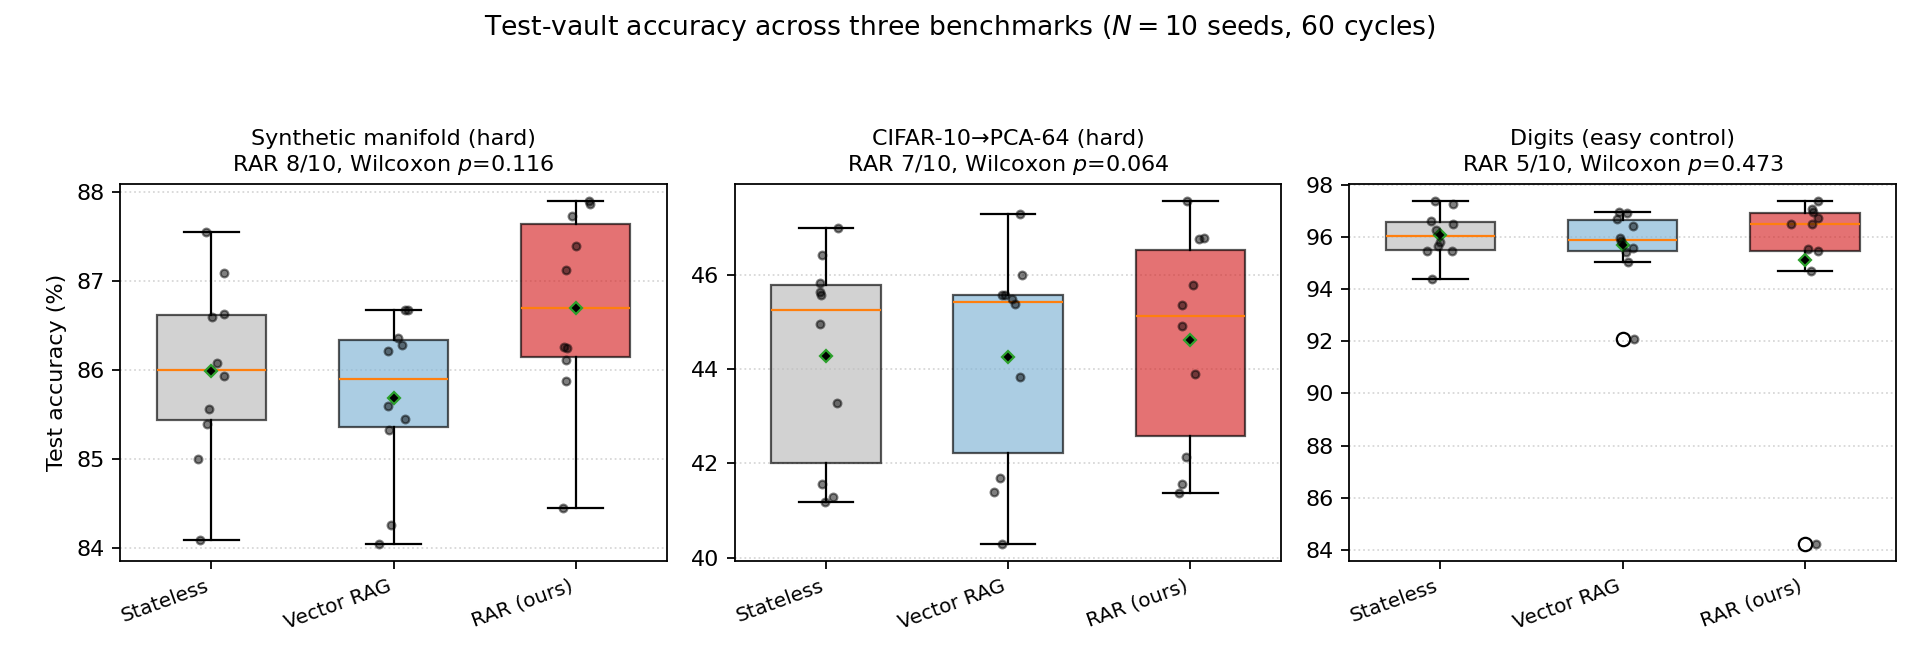
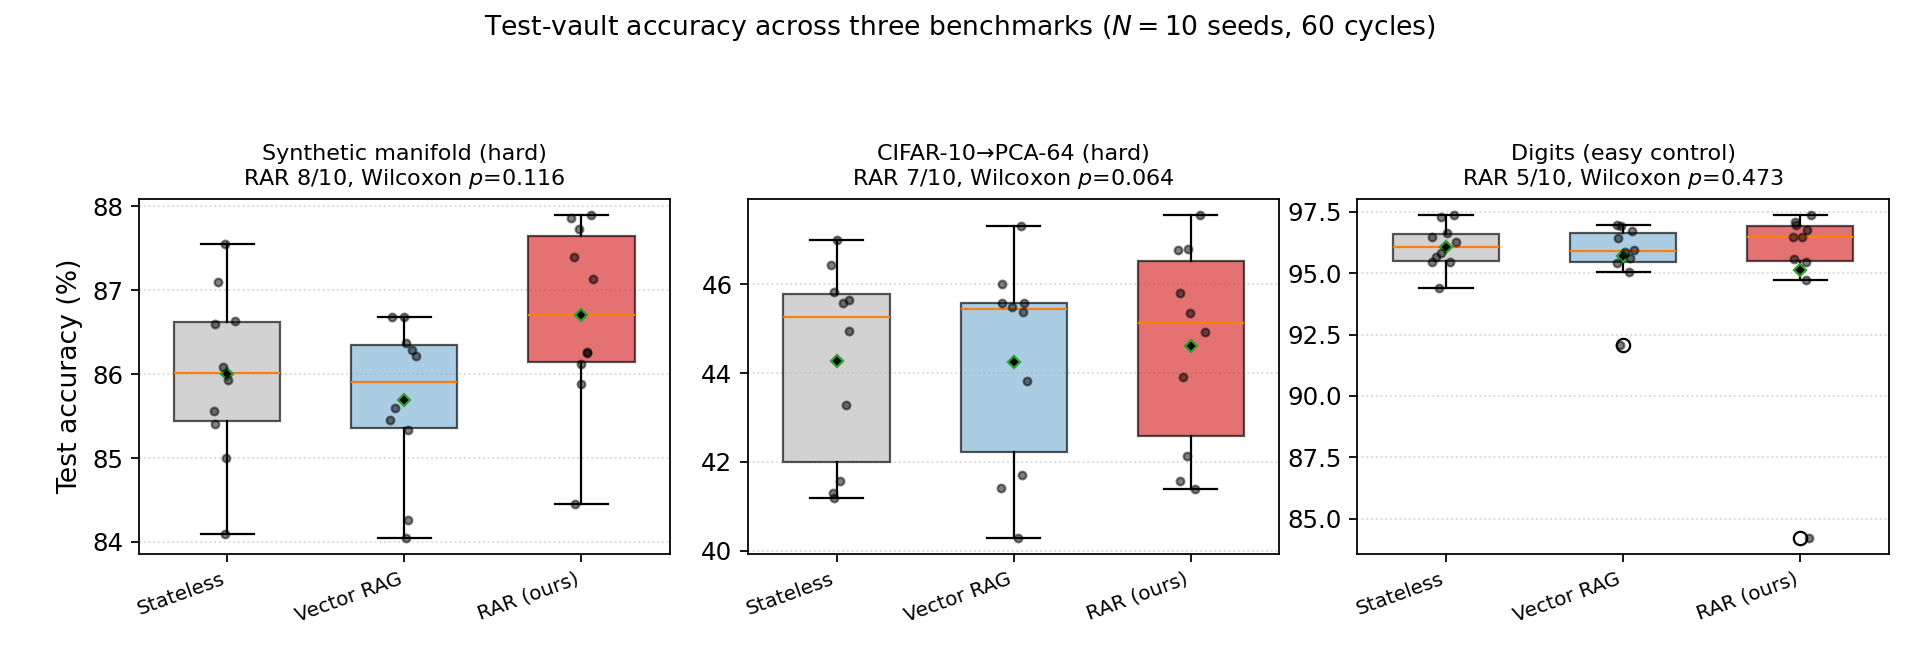
Fix small/overlapping figures: promote wide multi-panel figs to full-width figure*, bump fonts
Root cause was layout, not the PNGs: fig_efficiency and fig_retention were in single-column
figure environments, so IEEEtran's two-column layout squeezed them tiny with overlapping
text. Promoted both to figure*[!t] (span both columns); bumped base font sizes (13pt) and
regenerated all three data figures for crisp print rendering. fig_threetask already full-width.
Compiles clean (26pp, 0 undefined).

diff --git a/main.tex b/main.tex
@@ -261,9 +261,9 @@ agent retained it through its summary. The bound also clarifies a limitation of 
 study (\cref{sec:limitations}): with $w$ on the order of the campaign length at $60$ cycles,
 the regime $t\gg w$ where the gap should be largest is only beginning to be probed.
 
-\begin{figure}[htbp]
+\begin{figure*}[!t]
   \centering
-  \includegraphics[width=0.82\linewidth]{fig_retention.png}
+  \includegraphics[width=0.72\linewidth]{fig_retention.png}
   \caption{\textbf{Proposition~\ref{prop:retention}: best-trial retention vs.\ horizon.}
   A fixed-context agent retains its best-so-far result with probability $\min(1,w/t)$
   (grey dashed; retention window $w{=}\lfloor\Cmax/\ell\rfloor\approx 20$ for our
@@ -274,7 +274,7 @@ the regime $t\gg w$ where the gap should be largest is only beginning to be prob
   agents still see their best result and accuracy is at parity; the decisive separation
   occurs only at $t\gg w$, which the present $60$-cycle campaigns barely reach.}
   \label{fig:retention}
-\end{figure}
+\end{figure*}
 
 \subsection{RAR Architecture}
 \label{sec:arch}
@@ -436,12 +436,12 @@ Digits (easy control)       & $96.08 \pm 0.91$ & $95.71 \pm 1.43$ & $95.11 \pm 3
 \end{tabular}
 \end{table*}
 
-\begin{figure}[htbp]
+\begin{figure*}[!t]
   \centering
   \includegraphics[width=\linewidth]{fig_efficiency.png}
   \caption{\textbf{What RAR cuts at equal accuracy} (synthetic Task~A campaign, mean over $N{=}10$ seeds; generated by \texttt{plot\_efficiency.py} from the released data). Relative to the Stateless Baseline, RAR reduces net token cost by $53.9\%$ ($274.8$K$\to$$126.6$K) and prompt density by $56.4\%$ ($1.10\to0.48$), and has the lowest late-cycle redundancy of any condition ($5.3$ vs Vector RAG's $33.5$), while test accuracy stays at parity across all three benchmarks (\cref{tab:empirical_results}).}
   \label{fig:reductions}
-\end{figure}
+\end{figure*}
 
 \paragraph{Efficiency is the robust effect.} On the synthetic campaign the stateless baseline's logs grew until prompt density reached $\delta = 1.10$, beyond the compression regime, whereas RAR held $\delta = 0.48$ and the compute-matched Vector RAG $0.71$. RAR cut net token cost to $126{,}617$ characters, a $53.9\%$ reduction over the baseline's $274{,}777$, and held late-cycle redundancy to $5.3$---the lowest of any condition---against Vector RAG's $33.5$. RAR thus sustains the agent's search at roughly half the token budget while exploring least redundantly.
 

diff --git a/plot_efficiency.py b/plot_efficiency.py
@@ -5,6 +5,7 @@ import os, json, numpy as np
 import matplotlib
 matplotlib.use("Agg")
 import matplotlib.pyplot as plt
+plt.rcParams.update({"font.size":13,"axes.titlesize":13,"axes.labelsize":12,"xtick.labelsize":11,"ytick.labelsize":11})
 
 ROOT = os.path.dirname(os.path.abspath(__file__))
 c = json.load(open(os.path.join(ROOT, "pilot_results_taskA.json")))["data"]["conditions"]

diff --git a/plot_threetask.py b/plot_threetask.py
@@ -6,6 +6,7 @@ import os, json, numpy as np
 import matplotlib
 matplotlib.use("Agg")
 import matplotlib.pyplot as plt
+plt.rcParams.update({"font.size":13,"axes.titlesize":13,"axes.labelsize":12,"xtick.labelsize":11,"ytick.labelsize":11})
 from scipy.stats import wilcoxon
 
 ROOT = os.path.dirname(os.path.abspath(__file__))